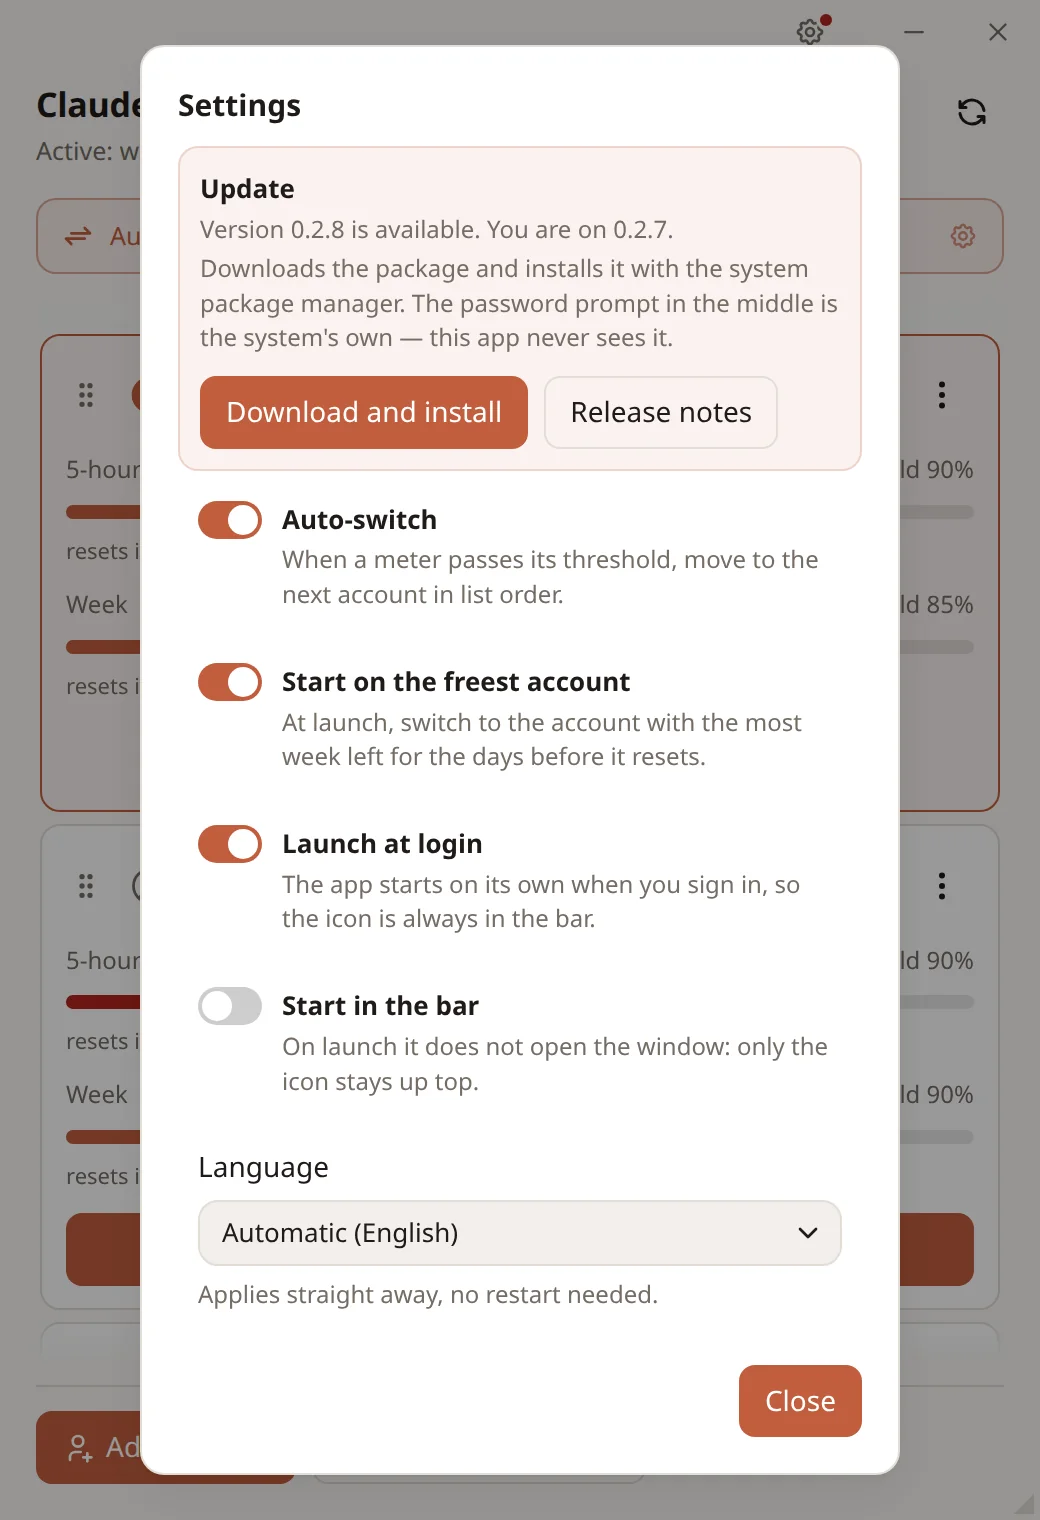
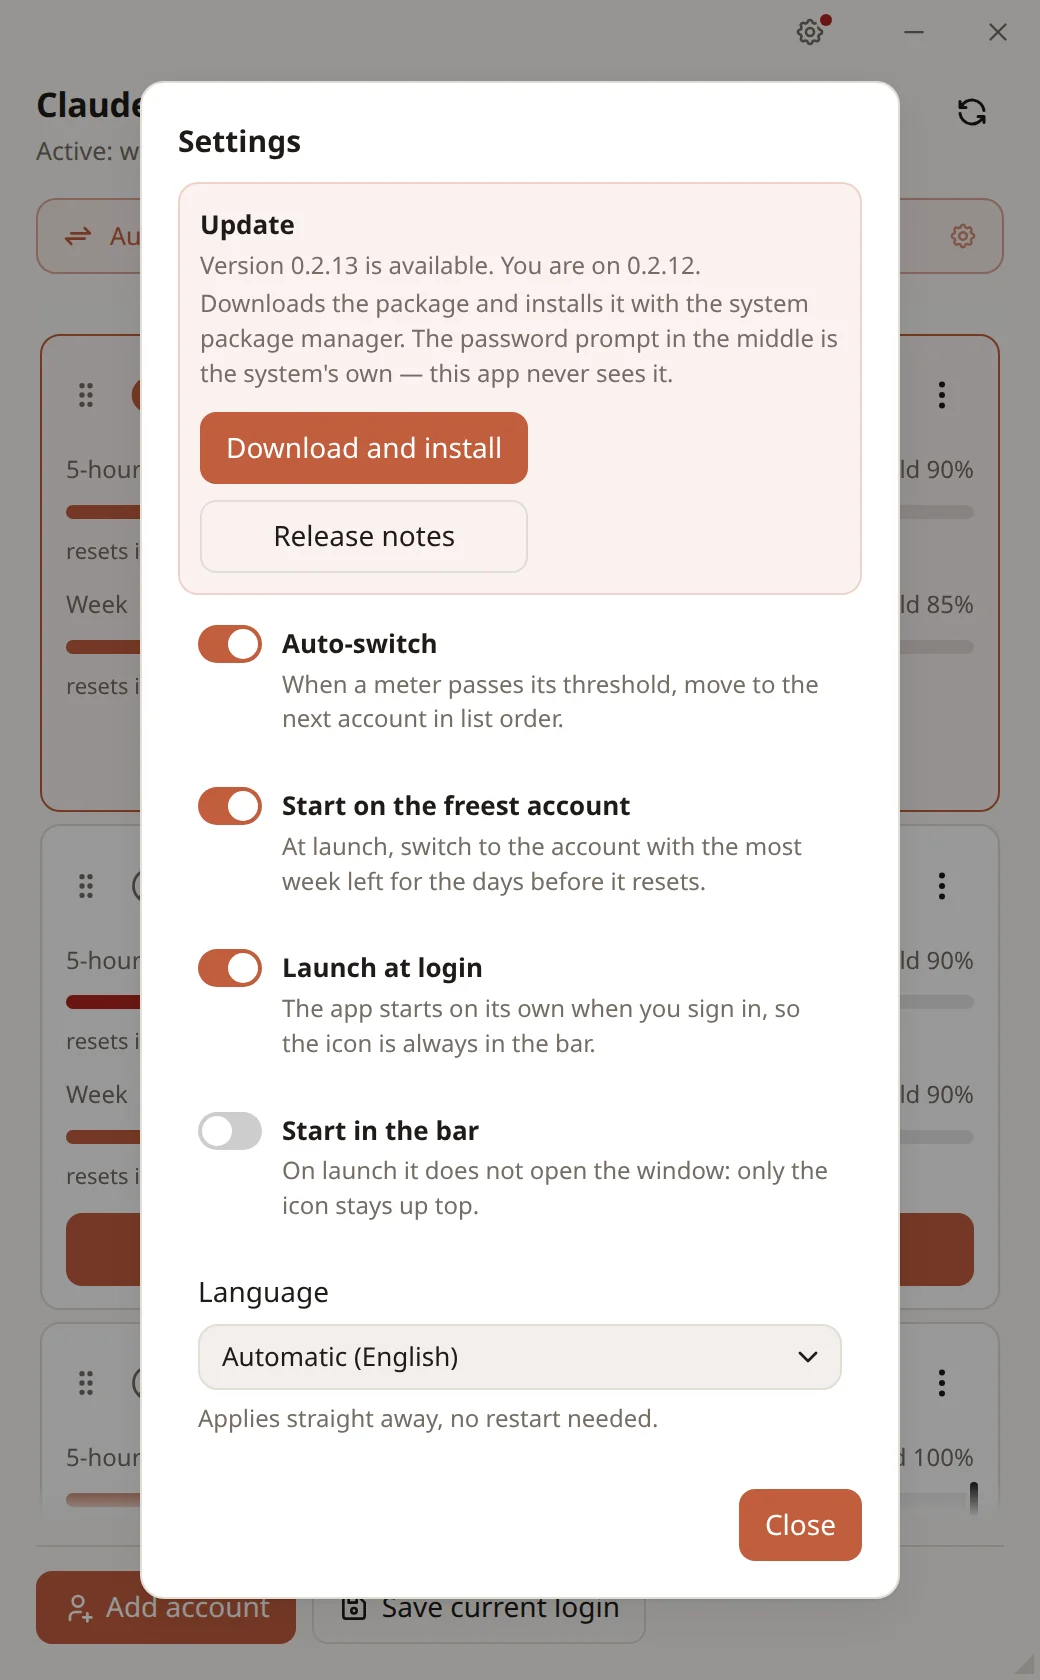
Bring the Switcher page up to 0.2.12
Adding an account no longer goes through a terminal: the section now
describes the app's own sign-in window, and the three-step dialog's
screenshot goes with the dialog. A token that will not renew gets its red
mark and "Sign in again" instead of "needs a fresh claude login". New:
where the app says what it did (toast or desktop notification, a standstill
said once), the week that has not started, Refresh lifting a cooldown, and
Renew token. Window, card and settings screenshots re-shot from the current
UI; the settings dialog grew with the stacked update actions.

diff --git a/claude-account-switcher/index.html b/claude-account-switcher/index.html
@@ -894,6 +894,11 @@
 					from 3h&nbsp;ago” — and so does the tray menu, where a frozen number is easiest to
 					mistake for a live one. Kept numbers that look freshly loaded are how a spent account
 					appears to have room left.</p>
+				<p class="aside">You know something a blanket <code>Retry-After</code> does not: whether
+					the reason for a refusal still applies. So <strong>Refresh</strong> lifts a running
+					cooldown and asks again — at most once every 3 minutes, so a held button cannot turn
+					into a stream of refused requests. When it is too soon, it says when the next try is
+					due.</p>
 			</div>
 		</div>
 
@@ -932,6 +937,36 @@
 
 		<div class="msg msg-user reveal">
 			<div class="body">
+				<p>If it switches while the window is closed, how do I find out?</p>
+			</div>
+		</div>
+
+		<div class="msg msg-ai reveal">
+			<img class="avatar" src="img/icon.png" width="34" height="34" alt="" />
+			<div class="body">
+				<p>It tells you where you are looking, not where the window happens to be. The app spends
+					most of its life behind the icon up top, so a strip inside the window is the wrong
+					place for something that happens at three and gets read at six.</p>
+				<ul>
+					<li><strong>Window open and in front</strong> — a toast over the account list, gone in
+						a few seconds.</li>
+					<li><strong>Anywhere else</strong> — a <strong>desktop notification</strong>, through
+						whatever your system runs. That covers everything that happens on its own: an
+						auto-switch, nothing left to switch to, a token that will not renew.</li>
+				</ul>
+				<p>A message that is really a <em>state</em> is said once and then left alone. “Nothing left
+					to switch to” would be the same answer every minute, so it is announced when the
+					standstill starts and not again until something moves it — a window resetting, an
+					account freed or added, or you switching yourself. In between, the meters sitting full
+					and the badge on the icon do the telling.</p>
+				<p class="aside">A desktop with nowhere to put a notification — no notification daemon, or
+					the permission refused on macOS — fails quietly. So the message is kept and shown as a
+					toast the next time the window comes up, rather than lost.</p>
+			</div>
+		</div>
+
+		<div class="msg msg-user reveal">
+			<div class="body">
 				<p>Can it just open on whichever account has the most left?</p>
 			</div>
 		</div>
@@ -946,6 +981,9 @@
 				<p>So 20 points to make six days last is a tighter week than 70 points for one day, and the
 					second account wins. Below a day the divisor stops falling: a window resetting in ten
 					minutes is not a reason to start on an account with nothing left in it right now.</p>
+				<p>A week that has not started yet — nothing spent, no reset date — is not a week to ration:
+					its seven days begin when you pick the account up, so it ranks ahead of every week
+					already running.</p>
 				<p class="aside">It is deliberately quiet about the cases it declines. An account whose usage
 					cannot be read is not a candidate — a comparison against a blank is not one — and a login
 					the app has never saved is left alone until you save it. When it does move, the window
@@ -962,15 +1000,16 @@
 		<div class="msg msg-ai reveal">
 			<img class="avatar" src="img/icon.png" width="34" height="34" alt="" />
 			<div class="body">
-				<p>Claude Code owns the login flow, so the app works around it rather than through it —
-					three steps, all in the <strong>Add account</strong> dialog:</p>
-				<figure class="shot">
-					<picture>
-						<source srcset="img/add-dark.webp" media="(prefers-color-scheme: dark)" />
-						<img src="img/add-light.webp" width="520" height="420" alt="The Add account dialog with its three steps: sign out, open terminal, save account." />
-					</picture>
-					<figcaption>Adding an account, one step per button.</figcaption>
-				</figure>
+				<p><strong>Add account</strong> opens a sign-in window of the app's own on claude.ai and runs
+					the same sign-in <code>claude /login</code> runs — so the tokens that come out are exactly
+					the ones the CLI would have saved. No terminal, no code to paste, and no signing out of
+					the account you are on: the window spots the redirect at the end and takes it from
+					there.</p>
+				<p>Each account keeps <strong>its own browser data</strong>. A new sign-in starts from
+					empty, so a claude.ai session already open somewhere else cannot answer for the account
+					you meant to add. Whatever account the sign-in ends up as is what gets saved, matched by
+					email: one already in the list is updated in place, anything else becomes a new
+					account. Closing the window halfway changes nothing.</p>
 				<p>And if you are already signed in the first time you open the app, you do not need any of
 					that: a <em>“Login not saved”</em> banner offers to capture the account you are on with
 					a single press. <strong>Save current login</strong>, at the bottom of the window, is the
@@ -988,9 +1027,9 @@
 		<div class="msg msg-ai reveal">
 			<img class="avatar" src="img/icon.png" width="34" height="34" alt="" />
 			<div class="body">
-				<p>They used to. Claude Code owns the login <em>flow</em>, but not the renewal: the refresh
-					token it stores was issued to its own public client, so the same grant works from here and
-					produces exactly the credentials the CLI would have written.</p>
+				<p>They used to. The refresh token a login stores was issued to Claude Code's own public
+					client, so the same grant works from here and produces exactly the credentials the CLI
+					would have written — the app renews them itself.</p>
 				<p>A pass every 20 seconds reads a few expiry dates off disk and sends nothing at all unless
 					something is due — a <strong>stored</strong> account 30 minutes before it expires, the
 					<strong>live</strong> login only within 5 minutes of it, the same window Claude Code
@@ -1004,7 +1043,21 @@
 						Code process is refreshing it or exited mid-refresh”</em>, left behind by a session
 					that died mid-write.</p>
 				<p>A refresh token that has been revoked or already spent cannot be renewed by anyone. The
-					app says so once, and that account needs a fresh <code>claude</code> login.</p>
+					app reads the refusal before believing it — a request merely worded differently is
+					retried once, the way Claude Code does — and only then says so, once. The account's
+					card keeps a red mark for as long as it lasts, with the endpoint's own reason in its
+					tooltip; pressing it opens <strong>Sign in again</strong>, which reopens that account's
+					own browser data, so while its claude.ai session is still alive it is one click on
+					<em>Authorize</em>.</p>
+				<figure class="shot">
+					<picture>
+						<source srcset="img/card-error-dark.webp" media="(prefers-color-scheme: dark)" />
+						<img src="img/card-error-light.webp" width="490" height="263" alt="An account card with a red warning mark next to its menu: the stored token could not be renewed." />
+					</picture>
+					<figcaption>The red mark: this token will not renew. Press it to sign the account in again.</figcaption>
+				</figure>
+				<p class="aside"><strong>Renew token</strong>, in each account's menu, does it right away
+					whatever the expiry says.</p>
 			</div>
 		</div>
 
@@ -1074,7 +1127,7 @@
 				<figure class="shot">
 					<picture>
 						<source srcset="img/settings-dark.webp" media="(prefers-color-scheme: dark)" />
-						<img src="img/settings-light.webp" width="520" height="760" alt="The Settings dialog: an available update at the top, then auto-switch, start on the freest account and launch at login on, start in the bar off, language set to automatic." />
+						<img src="img/settings-light.webp" width="520" height="840" alt="The Settings dialog: an available update at the top, then auto-switch, start on the freest account and launch at login on, start in the bar off, language set to automatic." />
 					</picture>
 					<figcaption>Everything the app lets you decide fits in one dialog — including, when there
 						is one, the update at the top.</figcaption>
